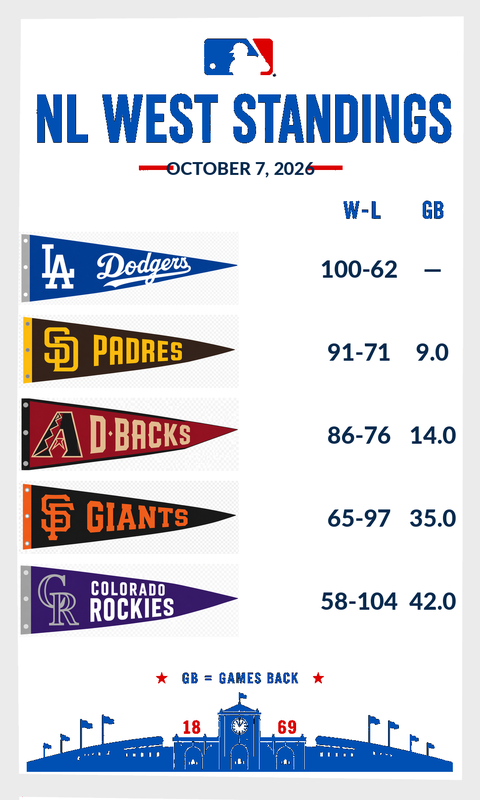
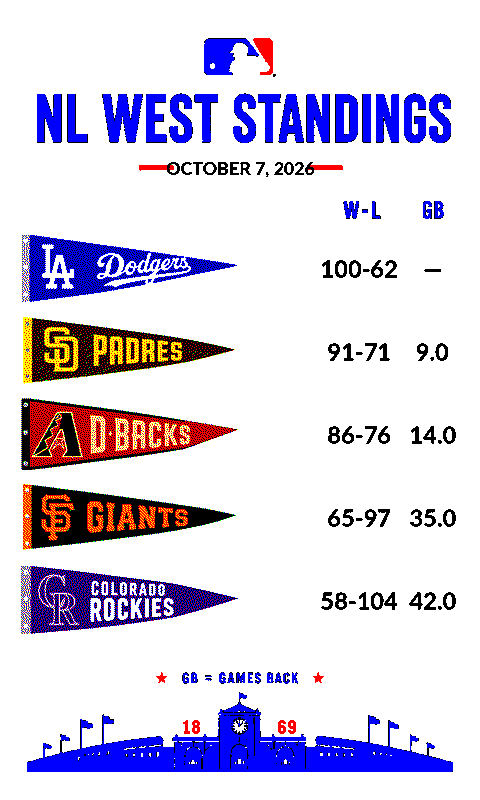
Pre-quantize renders to the Spectra 6 panel inks
The E1002 firmware dithered the full-colour PNGs itself, which turned
navy text and thin rules into a grainy blue/black speckle. Reduce each
frame to the six inks before saving: flat art and text snap to one solid
ink per pixel, and only the pennant artwork is error-diffused against an
approximation of the inks' on-panel appearance. Output holds only pure
ink values so the device displays it pixel-for-pixel; PNGs also shrink
from ~330KB to ~25KB.

Claude-Session: https://claude.ai/code/session_01X9UHWjt2S7gzFpZBcz7KNK

diff --git a/epaper.py b/epaper.py
@@ -1,0 +1,86 @@
+"""Reduce a rendered frame to the reTerminal E1002's six E Ink Spectra 6 inks.
+
+The panel can only show black, white, red, yellow, blue and green. Handed a
+full-colour PNG, the device firmware dithers the whole frame on its own, which
+turns flat navy text and thin rules into a grainy blue-and-black speckle.
+Doing the reduction here lets each region get the treatment it needs:
+
+  * flat art and text snap to one solid ink per pixel with no dithering, so
+    type and rules stay crisp;
+  * photographic artwork (the pennants) is error-diffused, which is the only
+    way six inks can suggest gold, maroon or teal.
+
+Matching is done against ``PERCEIVED`` — roughly what each ink looks like on
+the panel, which is far duller than its nominal RGB — so dithering mixes the
+inks in proportions that read right on the glass. Pixels are then written out
+as the pure ``DEVICE`` values, so the firmware's own palette lookup finds an
+exact match and passes the frame through untouched.
+"""
+from __future__ import annotations
+
+import numpy as np
+from PIL import Image
+
+# name: (pure value written to the PNG, approximate appearance on the panel)
+INKS = {
+    "black":  ((0, 0, 0),       (28, 32, 36)),
+    "white":  ((255, 255, 255), (236, 236, 230)),
+    "red":    ((255, 0, 0),     (190, 30, 34)),
+    "yellow": ((255, 255, 0),   (240, 222, 70)),
+    "blue":   ((0, 0, 255),     (40, 90, 190)),
+    "green":  ((0, 255, 0),     (40, 110, 50)),
+}
+DEVICE = np.array([rgb for rgb, _ in INKS.values()], dtype=np.uint8)
+PERCEIVED = np.array([rgb for _, rgb in INKS.values()], dtype=np.float32)
+WHITE = list(INKS).index("white")
+
+# How far a flat-art pixel must be from white before it takes ink. Just under
+# half keeps anti-aliased strokes at about the weight they were drawn at, and
+# keeps 1px rules and the footer's small type from breaking up.
+INK_COVERAGE = 0.4
+
+
+def _flat_indices(rgb: np.ndarray) -> np.ndarray:
+    """One ink per pixel for type and line art, with no dithering.
+
+    Every pixel is read as some ink laid over white paper at partial coverage,
+    which is what an anti-aliased edge is. Its absorption (255 - rgb) is scaled
+    up to full strength to recover the ink it came from, and that is matched
+    against the non-white inks; the pixel then gets that ink if coverage
+    clears INK_COVERAGE, white otherwise. Matching the plain pixel instead
+    lets half-covered navy edges land on green or blue and fringes every glyph.
+    """
+    absorb = 255.0 - rgb
+    coverage = absorb.max(axis=-1, keepdims=True)
+    full = 255.0 - absorb * (255.0 / np.maximum(coverage, 1.0))
+
+    inks = PERCEIVED.copy()
+    inks[WHITE] = np.inf  # a fully-covered pixel is never paper
+    dist = ((full[..., None, :] - inks) ** 2).sum(axis=-1)
+    idx = dist.argmin(axis=-1)
+    return np.where(coverage[..., 0] / 255.0 >= INK_COVERAGE, idx, WHITE)
+
+
+def _dithered_indices(img: Image.Image) -> np.ndarray:
+    flat = [int(c) for c in PERCEIVED.astype(np.uint8).ravel()]
+    pal = Image.new("P", (1, 1))
+    # Pillow wants 256 entries; repeating the six inks means no phantom
+    # seventh colour can be picked, and `% 6` folds every index back.
+    pal.putpalette((flat * 43)[: 768])
+    q = img.quantize(palette=pal, dither=Image.Dither.FLOYDSTEINBERG)
+    return np.asarray(q) % len(INKS)
+
+
+def to_spectra6(img: Image.Image, dither_mask: Image.Image | None = None) -> Image.Image:
+    """Map `img` onto the six panel inks.
+
+    `dither_mask` is an "L" image the size of `img`; non-zero pixels are
+    error-diffused, the rest are treated as flat art. With no mask nothing is
+    dithered.
+    """
+    rgb = img.convert("RGB")
+    idx = _flat_indices(np.asarray(rgb, dtype=np.float32))
+    if dither_mask is not None:
+        art = np.asarray(dither_mask.convert("L")) > 0
+        idx = np.where(art, _dithered_indices(rgb), idx)
+    return Image.fromarray(DEVICE[idx], "RGB")

diff --git a/render_nfl.py b/render_nfl.py
@@ -27,6 +27,8 @@ from zoneinfo import ZoneInfo
 import requests
 from PIL import Image, ImageDraw, ImageFont
 from requests.adapters import HTTPAdapter
+
+from epaper import to_spectra6
 from urllib3.util.retry import Retry
 
 ROOT = Path(__file__).resolve().parent
@@ -328,6 +330,9 @@ def render(standings: list[dict], week: int | None, games: list[dict], now: date
         raise FileNotFoundError(f"Missing NFL background artwork: {background}")
     img = Image.open(background).convert("RGBA")
     draw = ImageDraw.Draw(img)
+    # Marks the pennant artwork, the only part of the frame that is dithered
+    # when it is reduced to the panel's six inks.
+    artwork = Image.new("L", img.size, 0)
 
     # The generated background includes placeholder date/footer text, so clear
     # those dynamic zones and redraw them with live values.
@@ -346,6 +351,7 @@ def render(standings: list[dict], week: int | None, games: list[dict], now: date
         cy = ROW_CENTERS[slot]
         py = int(cy - pennant.height / 2)
         img.alpha_composite(pennant, (PENNANT_POLE_X, py))
+        artwork.paste(pennant.getchannel("A"), (PENNANT_POLE_X, py))
         draw.text((STAT_X[0], cy), row["wl"], font=stat_font, fill=NAVY, anchor="mm")
         draw.text((STAT_X[1], cy), row["div"], font=stat_font, fill=NAVY, anchor="mm")
         draw.text((STAT_X[2], cy), row["gb"], font=stat_font, fill=NAVY, anchor="mm")
@@ -359,7 +365,7 @@ def render(standings: list[dict], week: int | None, games: list[dict], now: date
             cx = left + width * (i + 0.5)
             if i:
                 sx = int(left + width * i)
-                draw.line((sx, 1413, sx, 1510), fill=GREY, width=2)
+                draw.line((sx, 1413, sx, 1510), fill=GREY, width=3)
             name_size = 31 if len(games) <= 3 else 24
             time_size = 27 if len(games) <= 3 else 21
             draw.text((cx, 1442), matchup_label(game), font=load_font(FONT_HEAVY, name_size), fill=NAVY, anchor="mm")
@@ -371,7 +377,8 @@ def render(standings: list[dict], week: int | None, games: list[dict], now: date
     draw.text((83, 1565), f"WEEK {week or '—'}", font=load_font(FONT_BOLD, 17), fill=NAVY, anchor="lm")
 
     img = img.resize(DEVICE_OUTPUT_SIZE, Image.Resampling.LANCZOS)
-    return img.convert("RGB")
+    artwork = artwork.resize(DEVICE_OUTPUT_SIZE, Image.Resampling.BOX)
+    return to_spectra6(img, dither_mask=artwork)
 
 
 def main():

diff --git a/render.py b/render.py
@@ -23,6 +23,8 @@ from zoneinfo import ZoneInfo
 import requests
 from PIL import Image, ImageDraw, ImageFont
 
+from epaper import to_spectra6
+
 ROOT     = Path(__file__).resolve().parent
 ASSETS   = ROOT / "assets"
 PENNANTS = ASSETS / "pennants"
@@ -125,6 +127,9 @@ def main():
 
     img  = Image.open(bg_path).convert("RGBA")
     draw = ImageDraw.Draw(img)
+    # Pennant artwork is dithered onto the panel's six inks; everything else
+    # snaps to solid ink so type stays crisp.
+    artwork = Image.new("L", img.size, 0)
     stat_font = load_font(STAT_FONT_SIZE)
 
     draw_date(draw)
@@ -141,6 +146,7 @@ def main():
         # vertically center the pennant on the row's centerline
         py = team["center"] - ph // 2
         img.alpha_composite(pennant, (PENNANT_X, py))
+        artwork.paste(pennant.getchannel("A"), (PENNANT_X, py))
 
         draw.text((WL_X, team["center"]), team["wl"], font=stat_font, fill=NAVY, anchor="mm")
         draw.text((GB_X, team["center"]), team["gb"], font=stat_font, fill=NAVY, anchor="mm")
@@ -148,13 +154,16 @@ def main():
     if DEVICE_OUTPUT_SIZE:
         # Downsample to native panel resolution so the device paints pixels 1:1.
         img = img.resize(DEVICE_OUTPUT_SIZE, Image.LANCZOS)
+        artwork = artwork.resize(DEVICE_OUTPUT_SIZE, Image.BOX)
+
+    img = to_spectra6(img, dither_mask=artwork)
 
     if ROTATE_FOR_PORTRAIT_MOUNT:
         # NEAREST keeps pixels exact (no resampling) on the 90° transpose.
         img = img.rotate(ROTATE_ANGLE, expand=True, resample=Image.NEAREST)
 
     OUT.parent.mkdir(parents=True, exist_ok=True)
-    img.convert("RGB").save(OUT, quality=95)
+    img.save(OUT, optimize=True)
     print(f"Wrote {OUT}  ({img.size[0]}x{img.size[1]})")
 
 

diff --git a/README.md b/README.md
@@ -4,6 +4,8 @@ Renderer for the 7.3-inch reTerminal E1002 e-paper sports collectible display.
 
 The repository contains independent MLB and NFL renderers. Both compose at high resolution and then downsample to the panel's native 480x800 portrait pixel grid.
 
+Both then reduce the frame to the panel's six E Ink Spectra 6 inks (black, white, red, yellow, blue, green) in `epaper.py`, so the firmware doesn't have to dither it. Text, rules and other flat art snap to one solid ink per pixel and stay crisp. Only the pennant artwork is dithered, against an approximation of how the inks look on the glass. The PNG holds only pure ink values, so the device shows it pixel-for-pixel.
+
 ## MLB — NL West
 
 `render.py` composites the existing NL West pennant artwork onto the MLB master and overlays the current date plus live W-L / GB standings from MLB StatsAPI.
